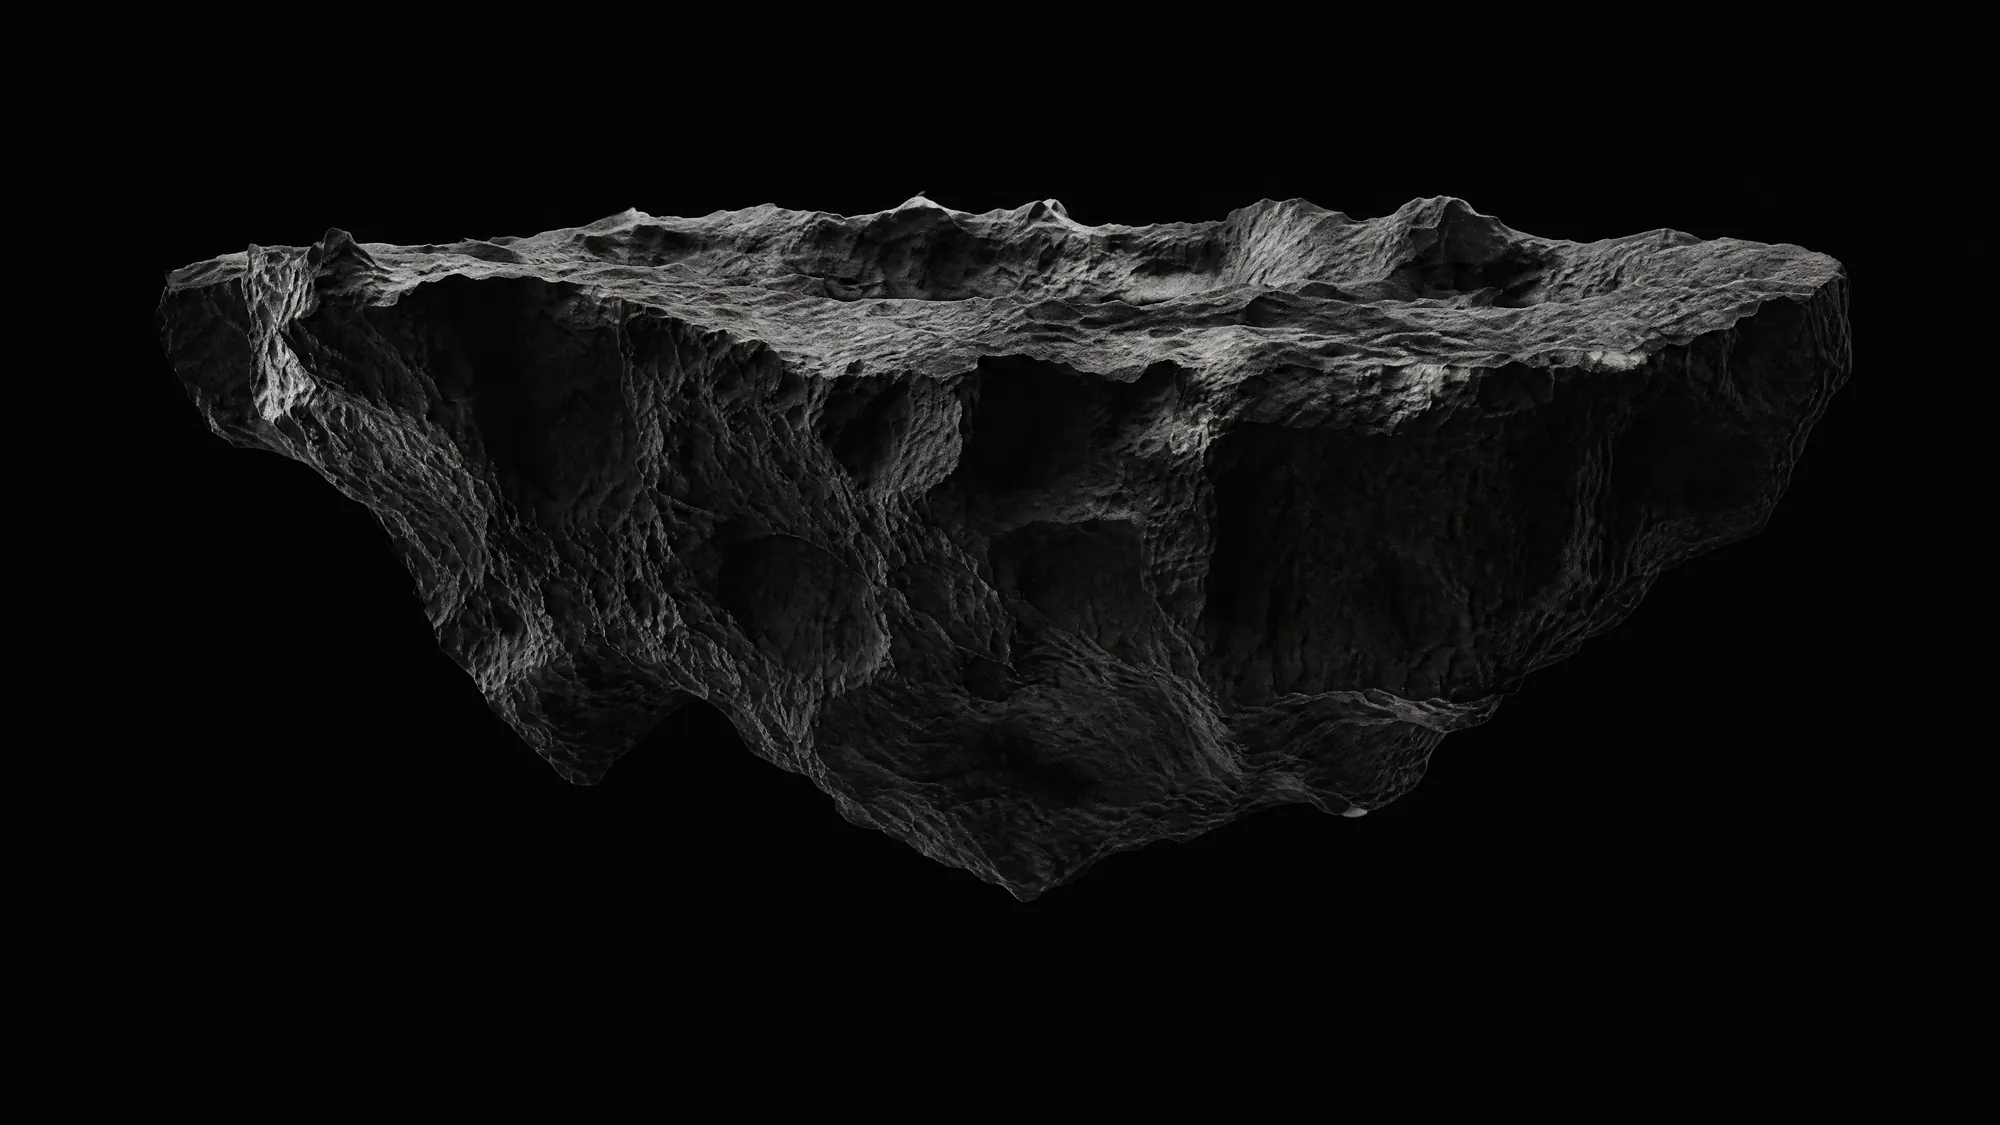
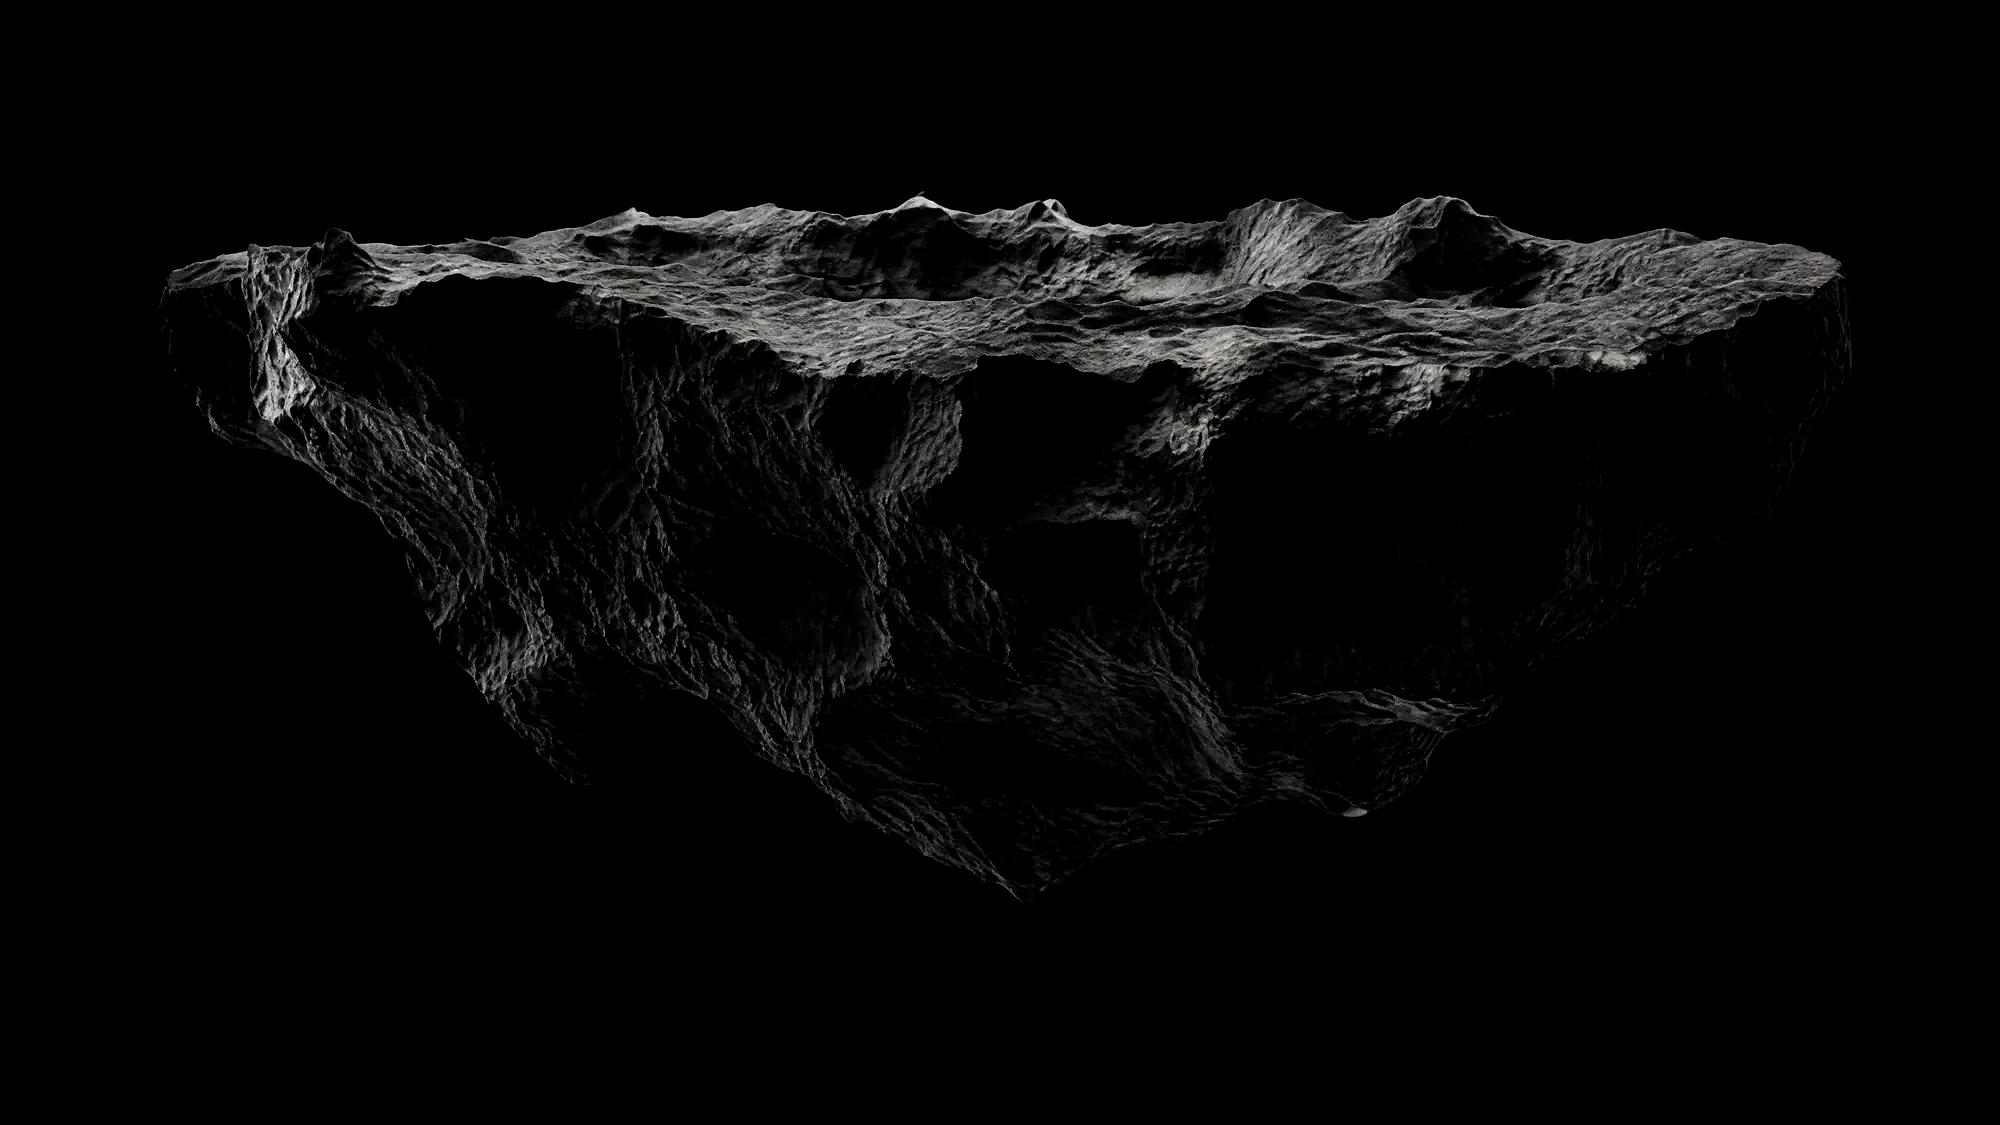
fix: мобильный hero — чёрный фон запечён в кадр, живой луч ~11с, дыхание камня
Серую полосу давали полутона фактуры вокруг монолита в самом фото +
дымка свечения. Исправлено у корня:

- base.webp пересведён (sharp, linear 1.18/−26): собственный серый фон
  кадра вдавлен в чистый чёрный — стык с --void исчез физически
  (97 КБ вместо 109).
- Луч ускорен: основной период обхода ~11 с (было ~30) — движение
  считывается в первые секунды; амплитуда по зоне монолита (центр 44%).
- Свечение сжато: компактное яркое пятно (0.2 → прозрачно на 62%)
  вместо широкой серой дымки.
- Камень «дышит»: monolithBreath (масштаб ±3.5%, дрейф −1%, 9 с) на
  обёртках стилла и видео — композится с внутренним transform, а не
  перекрывает его; выключается prefers-reduced-motion глобальным правилом.

diff --git a/src/components/sections/Hero.tsx b/src/components/sections/Hero.tsx
@@ -35,13 +35,14 @@ const TOUCH_HOLD_MS = 2200
 const TILT_TRAVEL_X = 0.18
 const TILT_TRAVEL_Y = 0.1
 
-/** The auto-sweep path: two incommensurate sine pairs → a slow, non-repeating
- *  wander, as if someone patiently moves a lamp across the specimen. */
+/** The auto-sweep path: two incommensurate sine pairs → a smooth non-repeating
+ *  wander. Primary period ≈ 11 s — clearly alive within the first seconds,
+ *  never frantic. */
 const SWEEP = {
-  x1: 0.00021,
-  x2: 0.00034,
-  y1: 0.00017,
-  y2: 0.00027,
+  x1: 0.00057,
+  x2: 0.00091,
+  y1: 0.00047,
+  y2: 0.00074,
 } as const
 
 /**
@@ -102,12 +103,12 @@ export default function Hero() {
         `rgba(0,0,0,0.4) 75%, rgba(0,0,0,0.12) 88%, transparent 100%)`
       maskEl.style.maskImage = mask
       maskEl.style.webkitMaskImage = mask
-      // The lamp itself: a soft luminous spot that reads even when the footage
-      // underneath is paused or nearly identical to the still.
+      // The lamp itself: a compact luminous spot that reads even when the
+      // footage underneath is paused. Tight falloff — a beam, not grey fog.
       if (glowEl) {
         glowEl.style.background =
-          `radial-gradient(circle ${(radius * 1.2).toFixed(0)}px at ${px}px ${py}px, ` +
-          `rgb(var(--bone-rgb) / 0.16), rgb(var(--bone-rgb) / 0.06) 45%, transparent 72%)`
+          `radial-gradient(circle ${(radius * 1.05).toFixed(0)}px at ${px}px ${py}px, ` +
+          `rgb(var(--bone-rgb) / 0.2), rgb(var(--bone-rgb) / 0.07) 42%, transparent 62%)`
       }
     }
 
@@ -121,17 +122,17 @@ export default function Hero() {
           target.x = touch.x
           target.y = touch.y
         } else {
-          // The wandering lamp: slow, smooth, never twice the same place —
-          // nudged by the device tilt when a gyroscope is present.
+          // The wandering lamp: smooth, never twice the same place, orbiting
+          // the monolith zone — nudged by device tilt when a gyro is present.
           target.x =
             w * 0.5 +
-            Math.sin(time * SWEEP.x1) * w * 0.2 +
-            Math.sin(time * SWEEP.x2 + 1.7) * w * 0.08 +
+            Math.sin(time * SWEEP.x1) * w * 0.24 +
+            Math.sin(time * SWEEP.x2 + 1.7) * w * 0.1 +
             tiltRef.current.x * w * TILT_TRAVEL_X
           target.y =
-            h * 0.52 +
-            Math.sin(time * SWEEP.y1 + 0.9) * h * 0.13 +
-            Math.cos(time * SWEEP.y2) * h * 0.06 +
+            h * 0.44 +
+            Math.sin(time * SWEEP.y1 + 0.9) * h * 0.1 +
+            Math.cos(time * SWEEP.y2) * h * 0.05 +
             tiltRef.current.y * h * TILT_TRAVEL_Y
         }
       }
@@ -192,11 +193,14 @@ export default function Hero() {
         }
       }}
     >
-      {/* The still monolith. */}
-      <div
-        className="absolute inset-0 z-10 bg-cover bg-center bg-no-repeat"
-        style={{ backgroundImage: `url(${baseImage})`, ...stillSizing, ...mediaTransform }}
-      />
+      {/* The still monolith. The breathing lives on the wrapper so it composes
+          with (rather than overrides) the inner media transform. */}
+      <div className={`absolute inset-0 z-10 ${isMobile ? 'monolith-breath' : ''}`}>
+        <div
+          className="absolute inset-0 bg-cover bg-center bg-no-repeat"
+          style={{ backgroundImage: `url(${baseImage})`, ...stillSizing, ...mediaTransform }}
+        />
+      </div>
 
       {/* Living footage, revealed only inside the beam. The mask lives on this
           untransformed wrapper so the spotlight stays in viewport space while
@@ -207,28 +211,30 @@ export default function Hero() {
           className="absolute inset-0 z-20"
           style={{ maskImage: 'radial-gradient(circle 0px at -999px -999px, #000, transparent)' }}
         >
-          <video
-            ref={videoRef}
-            src={VIDEO.reveal}
-            autoPlay
-            muted
-            loop
-            playsInline
-            preload="auto"
-            className={`absolute inset-0 h-full w-full ${isMobile ? 'object-contain' : 'object-cover'}`}
-            style={
-              isMobile
-                ? {
-                    ...mediaTransform,
-                    objectPosition: 'center 43%',
-                    // Lit by the beam: brighter than the still around it.
-                    filter: 'brightness(1.35) contrast(1.06)',
-                    maskImage: MOBILE_EDGE_MASK,
-                    WebkitMaskImage: MOBILE_EDGE_MASK,
-                  }
-                : { ...mediaTransform, filter: 'brightness(1.18)' }
-            }
-          />
+          <div className={`absolute inset-0 ${isMobile ? 'monolith-breath' : ''}`}>
+            <video
+              ref={videoRef}
+              src={VIDEO.reveal}
+              autoPlay
+              muted
+              loop
+              playsInline
+              preload="auto"
+              className={`absolute inset-0 h-full w-full ${isMobile ? 'object-contain' : 'object-cover'}`}
+              style={
+                isMobile
+                  ? {
+                      ...mediaTransform,
+                      objectPosition: 'center 43%',
+                      // Lit by the beam: brighter than the still around it.
+                      filter: 'brightness(1.35) contrast(1.06)',
+                      maskImage: MOBILE_EDGE_MASK,
+                      WebkitMaskImage: MOBILE_EDGE_MASK,
+                    }
+                  : { ...mediaTransform, filter: 'brightness(1.18)' }
+              }
+            />
+          </div>
         </div>
       )}
 

diff --git a/src/index.css b/src/index.css
@@ -223,6 +223,24 @@
   }
 }
 
+/* The exhibit breathes: a barely-there scale/height oscillation that keeps the
+   monolith alive between beam passes (mobile hero). Wrapper-level, so it
+   composes with the inner media transform instead of overriding it. */
+@keyframes monolithBreath {
+  0%,
+  100% {
+    transform: scale(1) translateY(0);
+  }
+  50% {
+    transform: scale(1.035) translateY(-1%);
+  }
+}
+
+.monolith-breath {
+  animation: monolithBreath 9s var(--ease-in-out) infinite;
+  will-change: transform;
+}
+
 @keyframes floatPulse {
   0%,
   100% {